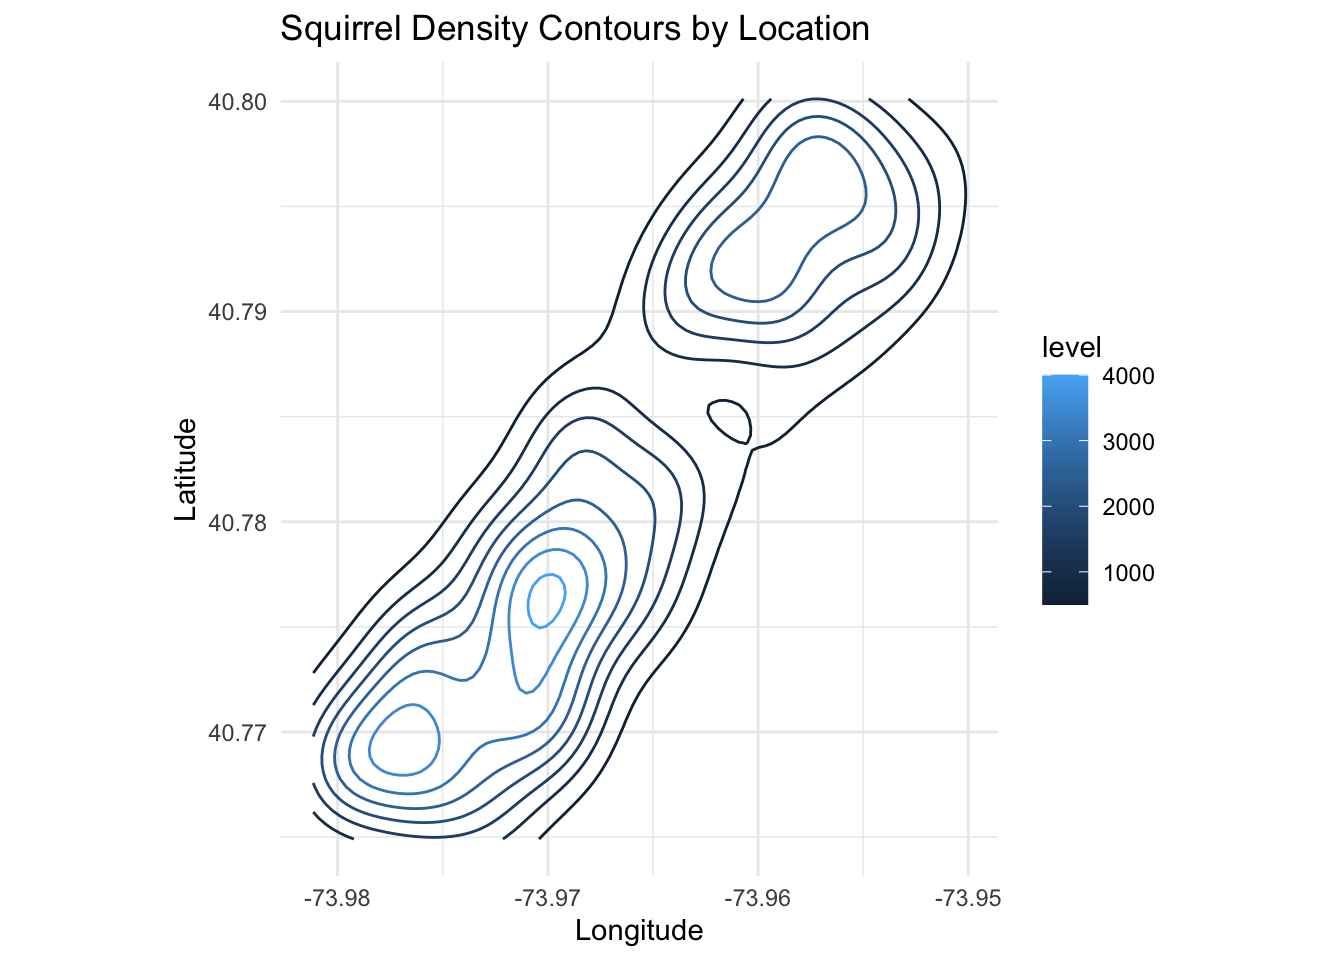
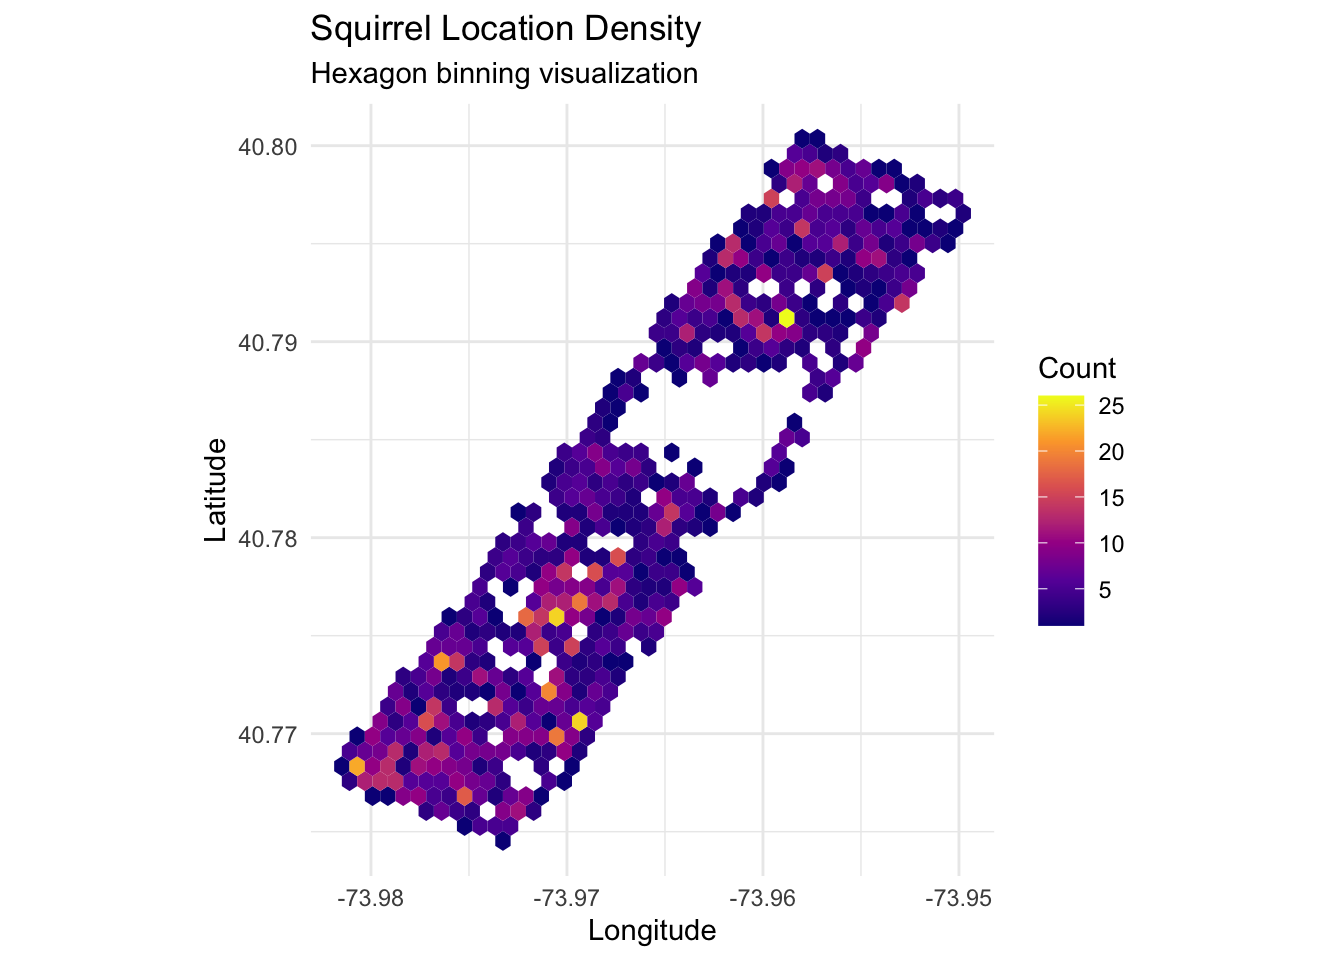
D3 updates

diff --git a/docs/results.html b/docs/results.html
@@ -344,25 +344,28 @@ pre > code.sourceCode > span > a:first-child::before { text-decoration: underlin
 <div class="cell">
 <details class="code-fold">
 <summary>Code</summary>
-<div class="sourceCode cell-code" id="cb5"><pre class="sourceCode r code-with-copy"><code class="sourceCode r"><span id="cb5-1"><a href="#cb5-1" aria-hidden="true" tabindex="-1"></a><span class="co"># Convert to sf object first</span></span>
-<span id="cb5-2"><a href="#cb5-2" aria-hidden="true" tabindex="-1"></a>coord_sf_obj <span class="ot">&lt;-</span> squirrel_data <span class="sc">|&gt;</span> </span>
-<span id="cb5-3"><a href="#cb5-3" aria-hidden="true" tabindex="-1"></a>  <span class="fu">st_as_sf</span>(<span class="at">coords =</span> <span class="fu">c</span>(<span class="st">'X'</span>, <span class="st">'Y'</span>), <span class="at">crs =</span> <span class="dv">4326</span>)</span>
-<span id="cb5-4"><a href="#cb5-4" aria-hidden="true" tabindex="-1"></a></span>
-<span id="cb5-5"><a href="#cb5-5" aria-hidden="true" tabindex="-1"></a><span class="co"># Extract coordinates for density calculation</span></span>
-<span id="cb5-6"><a href="#cb5-6" aria-hidden="true" tabindex="-1"></a>coords <span class="ot">&lt;-</span> <span class="fu">st_coordinates</span>(coord_sf_obj)</span>
-<span id="cb5-7"><a href="#cb5-7" aria-hidden="true" tabindex="-1"></a></span>
-<span id="cb5-8"><a href="#cb5-8" aria-hidden="true" tabindex="-1"></a><span class="co"># Create the plot</span></span>
-<span id="cb5-9"><a href="#cb5-9" aria-hidden="true" tabindex="-1"></a><span class="fu">ggplot</span>() <span class="sc">+</span></span>
-<span id="cb5-10"><a href="#cb5-10" aria-hidden="true" tabindex="-1"></a>  <span class="co"># Add filled contours with transparency</span></span>
-<span id="cb5-11"><a href="#cb5-11" aria-hidden="true" tabindex="-1"></a>  <span class="fu">stat_density_2d</span>(<span class="at">data =</span> <span class="fu">as.data.frame</span>(coords),</span>
-<span id="cb5-12"><a href="#cb5-12" aria-hidden="true" tabindex="-1"></a>                 <span class="fu">aes</span>(X, Y, <span class="at">color =</span> <span class="fu">after_stat</span>(level)),</span>
-<span id="cb5-13"><a href="#cb5-13" aria-hidden="true" tabindex="-1"></a>                 <span class="at">geom =</span> <span class="st">"density_2d"</span>) <span class="sc">+</span></span>
+<div class="sourceCode cell-code" id="cb5"><pre class="sourceCode r code-with-copy"><code class="sourceCode r"><span id="cb5-1"><a href="#cb5-1" aria-hidden="true" tabindex="-1"></a><span class="co"># Extract coordinates from the point data</span></span>
+<span id="cb5-2"><a href="#cb5-2" aria-hidden="true" tabindex="-1"></a>squirrel_coords <span class="ot">&lt;-</span> squirrel_data <span class="sc">%&gt;%</span></span>
+<span id="cb5-3"><a href="#cb5-3" aria-hidden="true" tabindex="-1"></a>  <span class="fu">mutate</span>(</span>
+<span id="cb5-4"><a href="#cb5-4" aria-hidden="true" tabindex="-1"></a>    <span class="at">coords =</span> <span class="fu">str_extract</span>(Lat.Long, <span class="st">"</span><span class="sc">\\</span><span class="st">(.*</span><span class="sc">\\</span><span class="st">)"</span>),</span>
+<span id="cb5-5"><a href="#cb5-5" aria-hidden="true" tabindex="-1"></a>    <span class="at">coords =</span> <span class="fu">str_remove_all</span>(coords, <span class="st">"[</span><span class="sc">\\</span><span class="st">(</span><span class="sc">\\</span><span class="st">)]"</span>),</span>
+<span id="cb5-6"><a href="#cb5-6" aria-hidden="true" tabindex="-1"></a>    <span class="at">longitude =</span> <span class="fu">as.numeric</span>(<span class="fu">word</span>(coords, <span class="dv">1</span>)),</span>
+<span id="cb5-7"><a href="#cb5-7" aria-hidden="true" tabindex="-1"></a>    <span class="at">latitude =</span> <span class="fu">as.numeric</span>(<span class="fu">word</span>(coords, <span class="dv">2</span>))</span>
+<span id="cb5-8"><a href="#cb5-8" aria-hidden="true" tabindex="-1"></a>  )</span>
+<span id="cb5-9"><a href="#cb5-9" aria-hidden="true" tabindex="-1"></a></span>
+<span id="cb5-10"><a href="#cb5-10" aria-hidden="true" tabindex="-1"></a><span class="co"># Create hexbin plot</span></span>
+<span id="cb5-11"><a href="#cb5-11" aria-hidden="true" tabindex="-1"></a><span class="fu">ggplot</span>(squirrel_coords, <span class="fu">aes</span>(<span class="at">x =</span> longitude, <span class="at">y =</span> latitude)) <span class="sc">+</span></span>
+<span id="cb5-12"><a href="#cb5-12" aria-hidden="true" tabindex="-1"></a>  <span class="fu">geom_hex</span>(<span class="at">bins =</span> <span class="dv">40</span>) <span class="sc">+</span>  </span>
+<span id="cb5-13"><a href="#cb5-13" aria-hidden="true" tabindex="-1"></a>  <span class="fu">scale_fill_viridis_c</span>(<span class="at">option =</span> <span class="st">"plasma"</span>, <span class="at">direction =</span> <span class="dv">1</span>) <span class="sc">+</span>  </span>
 <span id="cb5-14"><a href="#cb5-14" aria-hidden="true" tabindex="-1"></a>  <span class="fu">theme_minimal</span>() <span class="sc">+</span></span>
-<span id="cb5-15"><a href="#cb5-15" aria-hidden="true" tabindex="-1"></a>  <span class="fu">labs</span>(<span class="at">title =</span> <span class="st">'Squirrel Density Contours by Location'</span>,</span>
-<span id="cb5-16"><a href="#cb5-16" aria-hidden="true" tabindex="-1"></a>       <span class="at">x =</span> <span class="st">'Longitude'</span>,</span>
-<span id="cb5-17"><a href="#cb5-17" aria-hidden="true" tabindex="-1"></a>       <span class="at">y =</span> <span class="st">'Latitude'</span>) <span class="sc">+</span></span>
-<span id="cb5-18"><a href="#cb5-18" aria-hidden="true" tabindex="-1"></a>  <span class="co"># Adjust aspect ratio for better geographic representation</span></span>
-<span id="cb5-19"><a href="#cb5-19" aria-hidden="true" tabindex="-1"></a>  <span class="fu">coord_fixed</span>()</span></code><button title="Copy to Clipboard" class="code-copy-button"><i class="bi"></i></button></pre></div>
+<span id="cb5-15"><a href="#cb5-15" aria-hidden="true" tabindex="-1"></a>  <span class="fu">labs</span>(</span>
+<span id="cb5-16"><a href="#cb5-16" aria-hidden="true" tabindex="-1"></a>    <span class="at">title =</span> <span class="st">"Squirrel Location Density"</span>,</span>
+<span id="cb5-17"><a href="#cb5-17" aria-hidden="true" tabindex="-1"></a>    <span class="at">subtitle =</span> <span class="st">"Hexagon binning visualization"</span>,</span>
+<span id="cb5-18"><a href="#cb5-18" aria-hidden="true" tabindex="-1"></a>    <span class="at">x =</span> <span class="st">"Longitude"</span>,</span>
+<span id="cb5-19"><a href="#cb5-19" aria-hidden="true" tabindex="-1"></a>    <span class="at">y =</span> <span class="st">"Latitude"</span>,</span>
+<span id="cb5-20"><a href="#cb5-20" aria-hidden="true" tabindex="-1"></a>    <span class="at">fill =</span> <span class="st">"Count"</span></span>
+<span id="cb5-21"><a href="#cb5-21" aria-hidden="true" tabindex="-1"></a>  ) <span class="sc">+</span></span>
+<span id="cb5-22"><a href="#cb5-22" aria-hidden="true" tabindex="-1"></a>  <span class="fu">coord_fixed</span>()  </span></code><button title="Copy to Clipboard" class="code-copy-button"><i class="bi"></i></button></pre></div>
 </details>
 <div class="cell-output-display">
 <div>

diff --git a/scripts/myscript.js b/scripts/myscript.js
@@ -1,25 +1,114 @@
-d3.json("path/to/hex_grid.geojson").then(data => {
-  const projection = ...;   // define a suitable projection
-  const pathGenerator = d3.geoPath().projection(projection);
-  
-  const colorScale = d3.scaleSequential(d3.interpolateMagma)
-    .domain([0, d3.max(data.features, d => d.properties.Count)]);
-  
-  svg.selectAll("path")
-    .data(data.features)
-    .enter().append("path")
-      .attr("d", pathGenerator)
-      .attr("fill", d => colorScale(d.properties.Count))
-      .attr("stroke", "#000")
-      .on("mouseover", (event, d) => {
-        tooltip.style("opacity", 1)
-          .html(`Count: ${d.properties.Count}`);
-      })
-      .on("mousemove", (event) => {
-        tooltip.style("left", (event.pageX + 10) + "px")
-          .style("top", (event.pageY - 20) + "px");
-      })
-      .on("mouseout", () => {
-        tooltip.style("opacity", 0);
-      });
-});
+// Log the current page URL to help debug the path
+console.log("Current page URL:", window.location.href);
+console.log("Current page pathname:", window.location.pathname);
+
+// Set the dimensions and margins
+const margin = {top: 40, right: 40, bottom: 40, left: 40};
+const width = 800 - margin.left - margin.right;
+const height = 600 - margin.top - margin.bottom;
+
+// Create SVG container
+const svg = d3.select("#plot")
+    .append("svg")
+    .attr("width", width + margin.left + margin.right)
+    .attr("height", height + margin.top + margin.bottom)
+    .append("g")
+    .attr("transform", `translate(${margin.left},${margin.top})`);
+
+// Create tooltip
+const tooltip = d3.select("body")
+    .append("div")
+    .style("position", "absolute")
+    .style("padding", "10px")
+    .style("background", "white")
+    .style("border", "1px solid #ddd")
+    .style("border-radius", "4px")
+    .style("pointer-events", "none")
+    .style("font-size", "12px")
+    .style("opacity", 0);
+
+// Add loading indicator
+d3.select("#plot")
+    .append("div")
+    .attr("id", "loading-message")
+    .style("color", "black")
+    .style("padding", "20px")
+    .text("Loading data...");
+
+// Try multiple possible paths
+const possiblePaths = [
+    "./scripts/squirrel_coords.json",
+    "../scripts/squirrel_coords.json",
+    "/scripts/squirrel_coords.json",
+    "scripts/squirrel_coords.json"
+];
+
+// Function to try loading data from different paths
+function tryLoadData(paths) {
+    if (paths.length === 0) {
+        throw new Error("Could not find data file in any of the tried paths");
+    }
+    
+    const currentPath = paths[0];
+    console.log("Trying to load data from:", currentPath);
+    
+    return d3.json(currentPath)
+        .catch(error => {
+            console.log(`Failed to load from ${currentPath}:`, error);
+            return tryLoadData(paths.slice(1));
+        });
+}
+
+// Try loading the data
+tryLoadData(possiblePaths)
+    .then(function(data) {
+        console.log("Data loaded successfully:", data);
+        
+        // Remove loading message
+        d3.select("#loading-message").remove();
+
+        // [Rest of the visualization code remains the same...]
+        // Create scales
+        const xExtent = d3.extent(data, d => d.longitude);
+        const yExtent = d3.extent(data, d => d.latitude);
+
+        const x = d3.scaleLinear()
+            .domain(xExtent)
+            .range([0, width]);
+
+        const y = d3.scaleLinear()
+            .domain(yExtent)
+            .range([height, 0]);
+
+        // Create hexbin generator
+        const hexbin = d3.hexbin()
+            .x(d => x(d.longitude))
+            .y(d => y(d.latitude))
+            .radius(10)
+            .extent([[0, 0], [width, height]]);
+
+        // Process data for hexbin
+        const bins = hexbin(data);
+
+        // [Rest of your visualization code...]
+        
+    }).catch(function(error) {
+        console.error("Final error loading the data:", error);
+        
+        // Remove loading message and show error
+        d3.select("#loading-message").remove();
+        
+        // Add error message to the page
+        d3.select("#plot")
+            .append("div")
+            .style("color", "red")
+            .style("padding", "20px")
+            .html(`
+                Error loading the data:<br>
+                ${error.message}<br><br>
+                Please check:<br>
+                1. Current page URL: ${window.location.href}<br>
+                2. Tried paths: ${possiblePaths.join(', ')}<br>
+                3. Check the browser console (F12) for more details
+            `);
+    });

diff --git a/docs/scripts/myscript.js b/docs/scripts/myscript.js
@@ -1,1 +1,114 @@
-// add your JavaScript/D3 to this file
+// Log the current page URL to help debug the path
+console.log("Current page URL:", window.location.href);
+console.log("Current page pathname:", window.location.pathname);
+
+// Set the dimensions and margins
+const margin = {top: 40, right: 40, bottom: 40, left: 40};
+const width = 800 - margin.left - margin.right;
+const height = 600 - margin.top - margin.bottom;
+
+// Create SVG container
+const svg = d3.select("#plot")
+    .append("svg")
+    .attr("width", width + margin.left + margin.right)
+    .attr("height", height + margin.top + margin.bottom)
+    .append("g")
+    .attr("transform", `translate(${margin.left},${margin.top})`);
+
+// Create tooltip
+const tooltip = d3.select("body")
+    .append("div")
+    .style("position", "absolute")
+    .style("padding", "10px")
+    .style("background", "white")
+    .style("border", "1px solid #ddd")
+    .style("border-radius", "4px")
+    .style("pointer-events", "none")
+    .style("font-size", "12px")
+    .style("opacity", 0);
+
+// Add loading indicator
+d3.select("#plot")
+    .append("div")
+    .attr("id", "loading-message")
+    .style("color", "black")
+    .style("padding", "20px")
+    .text("Loading data...");
+
+// Try multiple possible paths
+const possiblePaths = [
+    "./scripts/squirrel_coords.json",
+    "../scripts/squirrel_coords.json",
+    "/scripts/squirrel_coords.json",
+    "scripts/squirrel_coords.json"
+];
+
+// Function to try loading data from different paths
+function tryLoadData(paths) {
+    if (paths.length === 0) {
+        throw new Error("Could not find data file in any of the tried paths");
+    }
+    
+    const currentPath = paths[0];
+    console.log("Trying to load data from:", currentPath);
+    
+    return d3.json(currentPath)
+        .catch(error => {
+            console.log(`Failed to load from ${currentPath}:`, error);
+            return tryLoadData(paths.slice(1));
+        });
+}
+
+// Try loading the data
+tryLoadData(possiblePaths)
+    .then(function(data) {
+        console.log("Data loaded successfully:", data);
+        
+        // Remove loading message
+        d3.select("#loading-message").remove();
+
+        // [Rest of the visualization code remains the same...]
+        // Create scales
+        const xExtent = d3.extent(data, d => d.longitude);
+        const yExtent = d3.extent(data, d => d.latitude);
+
+        const x = d3.scaleLinear()
+            .domain(xExtent)
+            .range([0, width]);
+
+        const y = d3.scaleLinear()
+            .domain(yExtent)
+            .range([height, 0]);
+
+        // Create hexbin generator
+        const hexbin = d3.hexbin()
+            .x(d => x(d.longitude))
+            .y(d => y(d.latitude))
+            .radius(10)
+            .extent([[0, 0], [width, height]]);
+
+        // Process data for hexbin
+        const bins = hexbin(data);
+
+        // [Rest of your visualization code...]
+        
+    }).catch(function(error) {
+        console.error("Final error loading the data:", error);
+        
+        // Remove loading message and show error
+        d3.select("#loading-message").remove();
+        
+        // Add error message to the page
+        d3.select("#plot")
+            .append("div")
+            .style("color", "red")
+            .style("padding", "20px")
+            .html(`
+                Error loading the data:<br>
+                ${error.message}<br><br>
+                Please check:<br>
+                1. Current page URL: ${window.location.href}<br>
+                2. Tried paths: ${possiblePaths.join(', ')}<br>
+                3. Check the browser console (F12) for more details
+            `);
+    });
